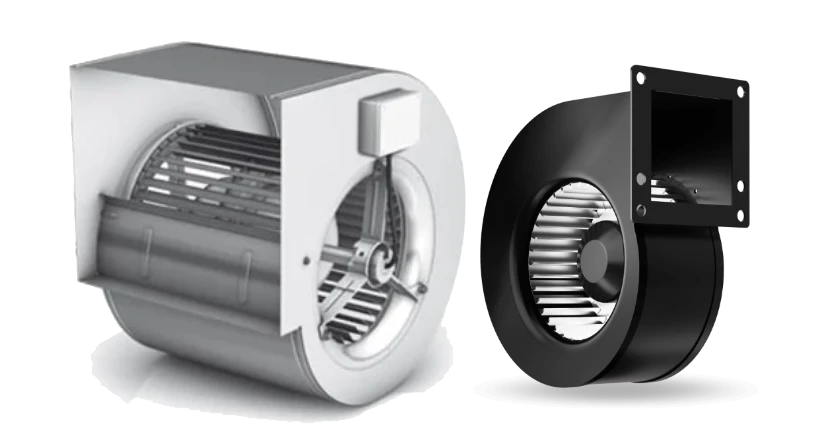
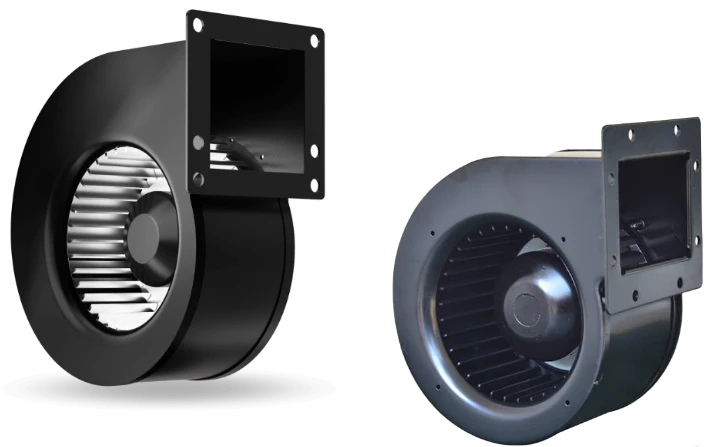
single inter img change

diff --git a/src/screen/Products/SingleInletCentrifugalFans/SingleInletCentrifugalFans.jsx b/src/screen/Products/SingleInletCentrifugalFans/SingleInletCentrifugalFans.jsx
@@ -6,11 +6,11 @@ import icon1 from "../../../assets/forward/icon1.svg"
 import icon2 from "../../../assets/forward/icon2.svg"
 import icon3 from "../../../assets/forward/icon3.svg"
 import InfoProduct from '../../../components/InfoProduct';
-import info1 from '../../../assets/forward/forward1.webp';
+import info1 from '../../../assets/single/ec-motors.webp';
 import ApplicationsSection from '../../../components/ApplicationsSection';
-import mainimg from "../../../assets/single/fan1.webp"
+import mainimg from "../../../assets/single/single-inlet.webp"
 import { ProductType } from '../../../components/ProductType';
-import product1 from "../../../assets/backward/product1.webp"
+import product1 from "../../../assets/single/centrifugal-fans.webp"
 import TechnologySection from '../../../components/TechnologySection';
 import airflow from "../../../assets/products/airflow.svg"
 import motor from "../../../assets/products/motor.svg"
